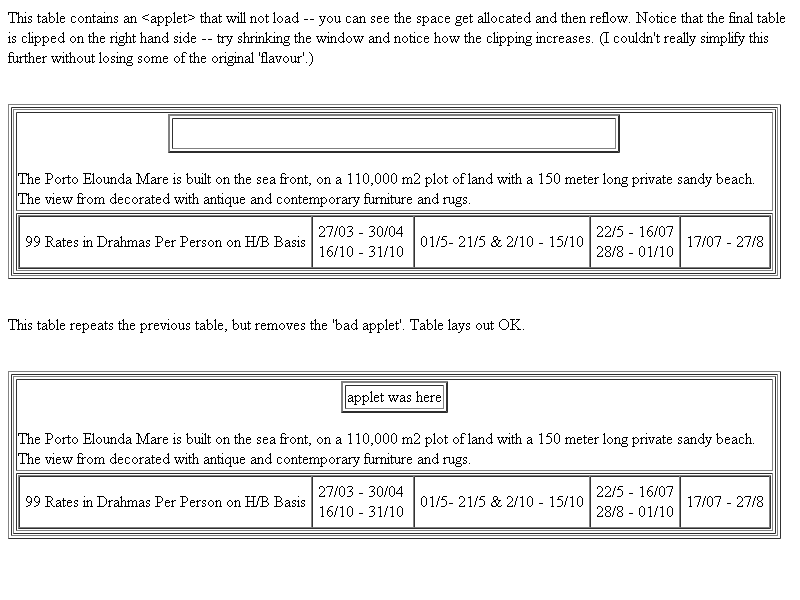
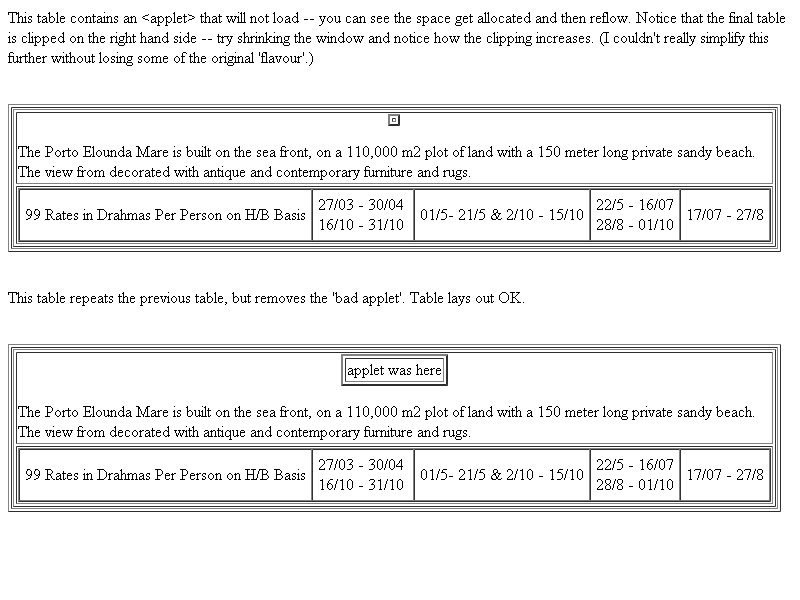
Fix bug 27217 - disable Java in test_shell by default, to match DumpRenderTree's behavior. This causes a couple other tests to produce output that could be construed as "failing" (in the way that upstream fails as well). I will file a separate bug in webkit to figure out what to do about them.
R=eseidel@chromium.org
  BUG=27217
  TEST=LayoutTests/fast/replaced/applet-rendering-java-disabled.html

Review URL: http://codereview.chromium.org/405026

git-svn-id: http://src.chromium.org/svn/trunk/src@32479 4ff67af0-8c30-449e-8e8b-ad334ec8d88c

Former-commit-id: fbc4ee22a3437b5d3cb91272994d7227781b5916

Changed region(s): [[0.0, 0.54, 1.0, 0.9], [0.0, 0.18, 1.0, 0.51]]

diff --git a/webkit/tools/test_shell/test_shell.cc b/webkit/tools/test_shell/test_shell.cc
@@ -434,7 +434,7 @@ void TestShell::ResetWebPreferences() {
         web_prefs_->shrinks_standalone_images_to_fit = false;
         web_prefs_->uses_universal_detector = false;
         web_prefs_->text_areas_are_resizable = false;
-        web_prefs_->java_enabled = true;
+        web_prefs_->java_enabled = false;
         web_prefs_->allow_scripts_to_close_windows = false;
         web_prefs_->xss_auditor_enabled = false;
         // It's off by default for Chrome, but we don't want to
